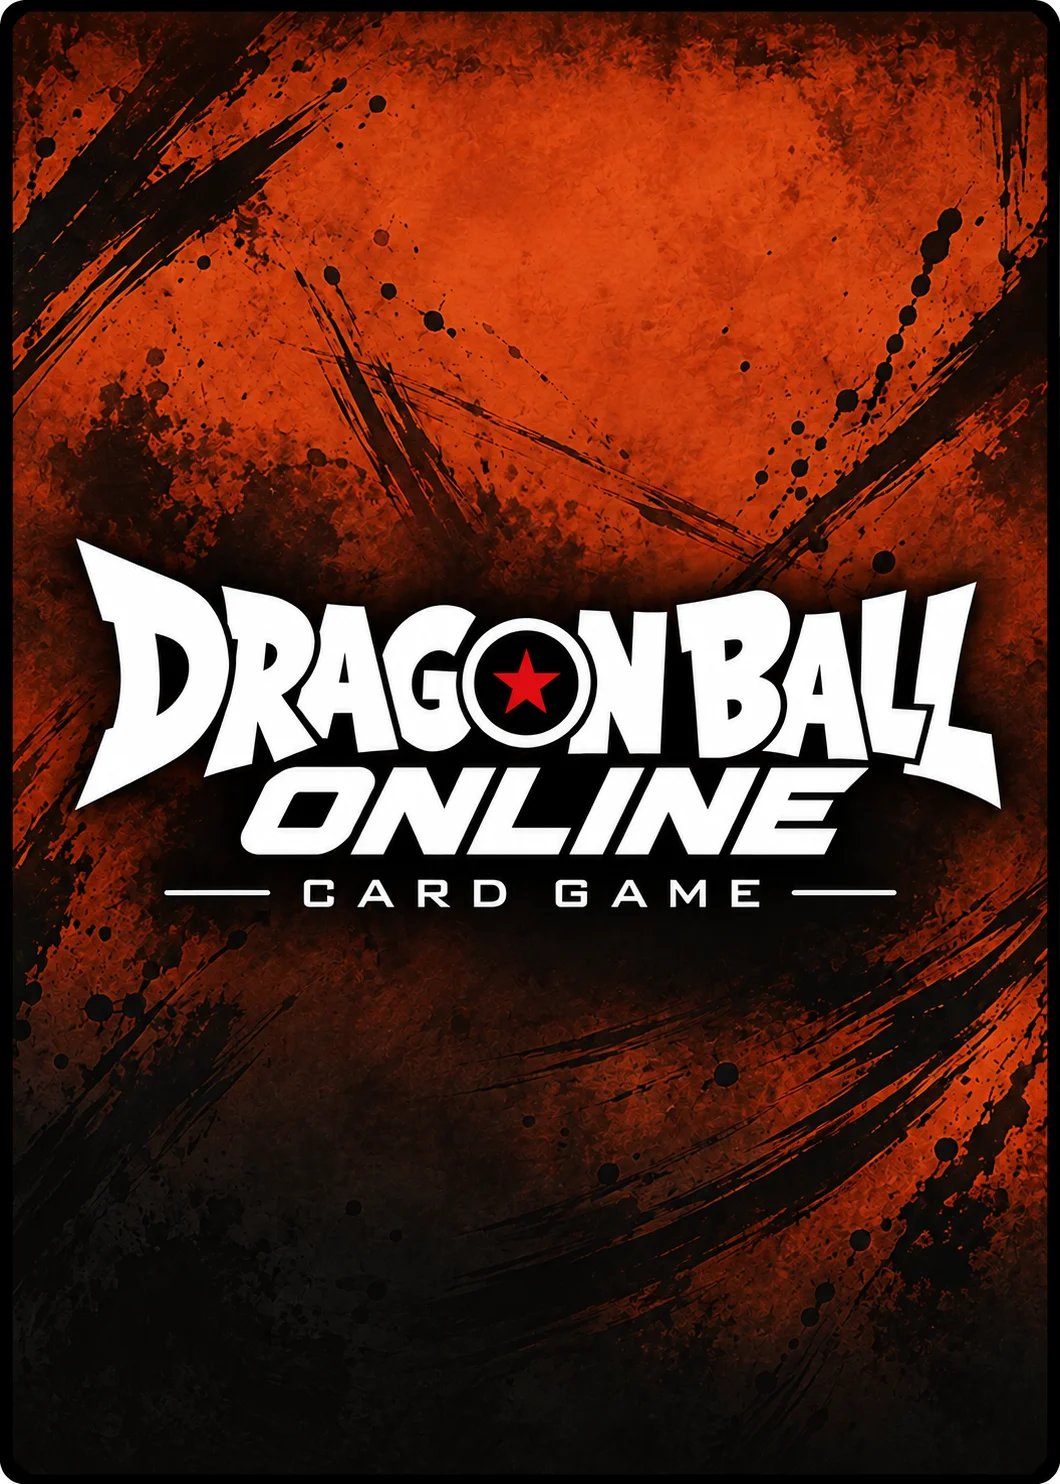
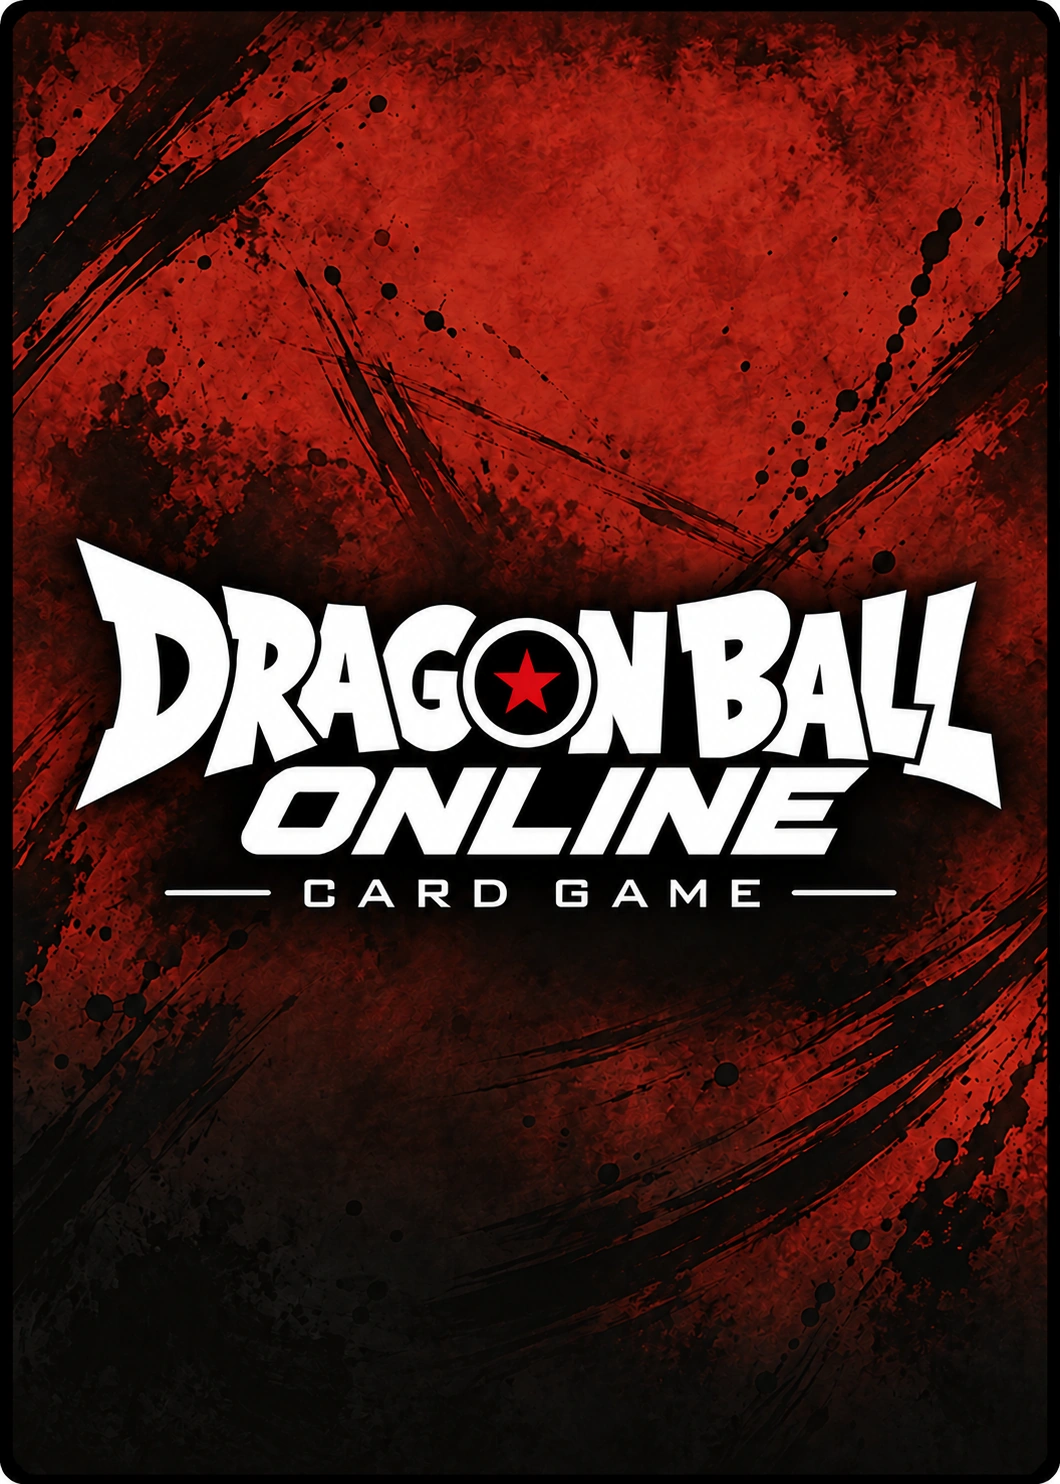
Use burnt-red card back artwork throughout site

diff --git a/public/app.js b/public/app.js
@@ -68,7 +68,7 @@ function zoneHTML(p, owner, zone) {
   const data = p.zones[zone], hidden = !Array.isArray(data), count = hidden ? data.count : data.length;
   if (!hidden && ['discard', 'removed', 'senseiDeck', 'location'].includes(zone)) {
     const top = data.at(-1), concealed = top?.faceDown && owner !== seat;
-    return `<div class="zone compact-pile" data-zone="${zone}" data-owner="${owner}"><div class="zone-label">${labels[zone]} <span>${count}</span></div><button class="pile-open" data-pile="${owner}:${zone}" aria-haspopup="dialog" aria-label="View ${owner === seat ? 'your' : 'opponent’s'} ${labels[zone]} pile, ${count} cards"><span class="pile-cover ${count > 1 ? 'stacked' : ''} ${!top ? 'empty-cover' : ''}">${top ? top.image && !concealed ? `<img src="${esc(top.image)}" alt="" loading="lazy" referrerpolicy="no-referrer">` : concealed ? '<img src="/assets/dragon-ball-online-card-back.webp" alt="">' : `<span>${esc(top.name)}</span>` : '<span>Empty</span>'}</span><span class="pile-caption">${count ? 'View pile' : 'Empty pile'}</span></button></div>`;
+    return `<div class="zone compact-pile" data-zone="${zone}" data-owner="${owner}"><div class="zone-label">${labels[zone]} <span>${count}</span></div><button class="pile-open" data-pile="${owner}:${zone}" aria-haspopup="dialog" aria-label="View ${owner === seat ? 'your' : 'opponent’s'} ${labels[zone]} pile, ${count} cards"><span class="pile-cover ${count > 1 ? 'stacked' : ''} ${!top ? 'empty-cover' : ''}">${top ? top.image && !concealed ? `<img src="${esc(top.image)}" alt="" loading="lazy" referrerpolicy="no-referrer">` : concealed ? '<img src="/assets/dragon-ball-online-card-back.webp?v=burnt-red-1" alt="">' : `<span>${esc(top.name)}</span>` : '<span>Empty</span>'}</span><span class="pile-caption">${count ? 'View pile' : 'Empty pile'}</span></button></div>`;
   }
   return `<div class="zone" data-zone="${zone}" data-owner="${owner}"><div class="zone-label">${labels[zone]} <span>${count}</span></div>${hidden ? `<div class="pile"><span class="card back" aria-hidden="true"></span>${count}</div><div class="pile-caption">${zone === 'deck' ? 'Life remaining' : 'Private'}</div>` : `<div class="cards">${data.map(c => cardHTML(c, owner, zone)).join('') || '<span class="empty">Empty</span>'}</div>`}</div>`;
 }
@@ -114,7 +114,7 @@ function getSelected(){if(!selected)return null;const[owner,zone,uid]=selected.s
 function renderInspector(){
   const s=getSelected();$('card-controls').hidden=!s;if(!s){selected=null;$('inspect').innerHTML='';return;}
   const {owner,zone,c}=s,mine=owner===seat,hidden=c.faceDown&&!mine,fixed=['mp','mastery','sensei'].includes(zone);
-  $('inspect').innerHTML=`${hidden?'<img class="preview-image" src="/assets/dragon-ball-online-card-back.webp" alt="Face-down card">':c.image?`<img class="preview-image" src="${esc(c.image)}" alt="${esc(c.name)}" referrerpolicy="no-referrer">`:'<div class="large-placeholder">Z</div>'}${c.image&&!hidden?'<button id="enlarge-card" class="wide">Enlarge card <svg class="ui-icon" viewBox="0 0 24 24" fill="none" stroke="currentColor" stroke-width="1.8" stroke-linecap="round" stroke-linejoin="round" aria-hidden="true" focusable="false"><path d="M14 3h7v7M21 3 10 14"/><path d="M21 14v5a2 2 0 0 1-2 2H5a2 2 0 0 1-2-2V5a2 2 0 0 1 2-2h5"/></svg></button>':''}<h3>${esc(hidden?'Face-down card':c.name)}</h3><p>${esc(hidden?'Hidden':c.id)} · ${labels[zone]}</p>${mine&&zone==='senseiDeck'&&game.status==='setup'?'<p class="fine">Choose cards in the Sensei swap checkboxes below your table, then swap them together.</p>':''}${mine&&game.status==='playing'&&!fixed?`<label>Move to<select id="destination">${Object.entries(labels).filter(([z])=>z!==zone&&!['mp','mastery','sensei'].includes(z)).map(([z,l])=>`<option value="${z}">${l}${z==='deck'?' (top)':''}</option>`).join('')}${zone!=='deck'?'<option value="deck-bottom">Life Deck (bottom)</option>':''}</select></label><button class="primary wide" id="move-selected">Move card <svg class="ui-icon" viewBox="0 0 24 24" fill="none" stroke="currentColor" stroke-width="1.8" stroke-linecap="round" stroke-linejoin="round" aria-hidden="true" focusable="false"><path d="M4 12h16m-6-6 6 6-6 6"/></svg></button>${!['hand','deck','senseiDeck'].includes(zone)?`<div class="toolbar"><button data-card-action="rest">${c.rested?'Mark unused':'Mark used'}</button><button data-card-action="flip">Flip</button></div>${zone==='allies'?'<div class="toolbar"><button data-card-action="stages" data-delta="-1">−1 stage</button><button data-card-action="stages" data-delta="1">+1 stage</button></div>':''}${zone==='dragonballs'?'<button data-card-action="giveDragonBall">Transfer to opponent</button>':''}`:''}`:''}`;
+  $('inspect').innerHTML=`${hidden?'<img class="preview-image" src="/assets/dragon-ball-online-card-back.webp?v=burnt-red-1" alt="Face-down card">':c.image?`<img class="preview-image" src="${esc(c.image)}" alt="${esc(c.name)}" referrerpolicy="no-referrer">`:'<div class="large-placeholder">Z</div>'}${c.image&&!hidden?'<button id="enlarge-card" class="wide">Enlarge card <svg class="ui-icon" viewBox="0 0 24 24" fill="none" stroke="currentColor" stroke-width="1.8" stroke-linecap="round" stroke-linejoin="round" aria-hidden="true" focusable="false"><path d="M14 3h7v7M21 3 10 14"/><path d="M21 14v5a2 2 0 0 1-2 2H5a2 2 0 0 1-2-2V5a2 2 0 0 1 2-2h5"/></svg></button>':''}<h3>${esc(hidden?'Face-down card':c.name)}</h3><p>${esc(hidden?'Hidden':c.id)} · ${labels[zone]}</p>${mine&&zone==='senseiDeck'&&game.status==='setup'?'<p class="fine">Choose cards in the Sensei swap checkboxes below your table, then swap them together.</p>':''}${mine&&game.status==='playing'&&!fixed?`<label>Move to<select id="destination">${Object.entries(labels).filter(([z])=>z!==zone&&!['mp','mastery','sensei'].includes(z)).map(([z,l])=>`<option value="${z}">${l}${z==='deck'?' (top)':''}</option>`).join('')}${zone!=='deck'?'<option value="deck-bottom">Life Deck (bottom)</option>':''}</select></label><button class="primary wide" id="move-selected">Move card <svg class="ui-icon" viewBox="0 0 24 24" fill="none" stroke="currentColor" stroke-width="1.8" stroke-linecap="round" stroke-linejoin="round" aria-hidden="true" focusable="false"><path d="M4 12h16m-6-6 6 6-6 6"/></svg></button>${!['hand','deck','senseiDeck'].includes(zone)?`<div class="toolbar"><button data-card-action="rest">${c.rested?'Mark unused':'Mark used'}</button><button data-card-action="flip">Flip</button></div>${zone==='allies'?'<div class="toolbar"><button data-card-action="stages" data-delta="-1">−1 stage</button><button data-card-action="stages" data-delta="1">+1 stage</button></div>':''}${zone==='dragonballs'?'<button data-card-action="giveDragonBall">Transfer to opponent</button>':''}`:''}`:''}`;
 }
 
 document.addEventListener('click', e => {

diff --git a/public/play/index.html b/public/play/index.html
@@ -3,7 +3,7 @@
 <body class="arena-page">
 <header class="site-header"><a class="brand" href="/" aria-label="Dragon Ball Online home"><img class="brand-logo" src="/assets/dragon-ball-online-logo.webp" alt="Dragon Ball Online Card Game" width="2048" height="768"></a><button id="nav-toggle" type="button" aria-expanded="false" aria-controls="site-navigation" aria-label="Open navigation"><svg viewBox="0 0 24 24" fill="none" stroke="currentColor" stroke-width="1.8" stroke-linecap="round" aria-hidden="true"><path class="menu-open" d="M4 8h16M4 16h16"/><path class="menu-close" d="m6 6 12 12M6 18 18 6"/></svg></button><nav id="site-navigation" aria-label="Main navigation"><span id="connection" class="pill">Online card game</span><a href="/">Home</a><a href="/play/" aria-current="page">Play</a><a href="/cards/">Card Database</a><a href="/decks/">Deck Builder</a><a href="/rulebook/">Rulebook</a></nav></header>
 <main>
-<section id="lobby" class="lobby"><div class="intro"><span class="eyebrow">YOUR DECK. YOUR NEXT BATTLE.</span><h1>A place to<br>play <em>Score DBZ CCG.</em></h1><p>The feel of a card table, right in your browser. Invite a friend, bring your deck, and take the game into your own hands.</p><div class="feature-row"><span>01 <b>Private tables</b></span><span>02 <b>Manual play</b></span><span>03 <b>Light guidance</b></span></div><div class="lobby-card-fan" role="img" aria-label="Three Dragon Ball Online card backs fanned out"><img src="/assets/dragon-ball-online-card-back.webp" alt="" width="1097" height="1536" draggable="false"><img src="/assets/dragon-ball-online-card-back.webp" alt="" width="1097" height="1536" draggable="false"><img src="/assets/dragon-ball-online-card-back.webp" alt="" width="1097" height="1536" draggable="false"></div></div>
+<section id="lobby" class="lobby"><div class="intro"><span class="eyebrow">YOUR DECK. YOUR NEXT BATTLE.</span><h1>A place to<br>play <em>Score DBZ CCG.</em></h1><p>The feel of a card table, right in your browser. Invite a friend, bring your deck, and take the game into your own hands.</p><div class="feature-row"><span>01 <b>Private tables</b></span><span>02 <b>Manual play</b></span><span>03 <b>Light guidance</b></span></div><div class="lobby-card-fan" role="img" aria-label="Three Dragon Ball Online card backs fanned out"><img src="/assets/dragon-ball-online-card-back.webp?v=burnt-red-1" alt="" width="1097" height="1536" draggable="false"><img src="/assets/dragon-ball-online-card-back.webp?v=burnt-red-1" alt="" width="1097" height="1536" draggable="false"><img src="/assets/dragon-ball-online-card-back.webp?v=burnt-red-1" alt="" width="1097" height="1536" draggable="false"></div></div>
 <div class="lobby-panel"><div class="section-label">THE LOBBY</div><h2>Take your seat.</h2><p>Two players. One shared table.</p><form id="room-form"><label>Your display name<input id="name" maxlength="24" placeholder="Enter your name" required autocomplete="nickname"></label><button class="primary wide" id="create" type="submit">Create a private table <span><svg class="ui-icon" viewBox="0 0 24 24" fill="none" stroke="currentColor" stroke-width="1.8" stroke-linecap="round" stroke-linejoin="round" aria-hidden="true" focusable="false"><path d="M14 3h7v7M21 3 10 14"/><path d="M21 14v5a2 2 0 0 1-2 2H5a2 2 0 0 1-2-2V5a2 2 0 0 1 2-2h5"/></svg></span></button></form><div class="divider">HAVE AN INVITE?</div><form id="join-form"><label>Room link or code<input id="room-code" placeholder="Paste your friend's invite" required></label><button class="wide" type="submit">Join table</button></form><button id="practice" class="text-button wide">Try a solo practice table <svg class="ui-icon" viewBox="0 0 24 24" fill="none" stroke="currentColor" stroke-width="1.8" stroke-linecap="round" stroke-linejoin="round" aria-hidden="true" focusable="false"><path d="M4 12h16m-6-6 6 6-6 6"/></svg></button><p class="fine">No account needed. Your seat stays in this browser. Anyone with your invite can claim the second seat.</p></div></section>
 <section id="table" hidden><div class="table-heading"><div><span class="eyebrow" id="room-label">PRIVATE TABLE</span><h1 id="table-title">Battle table</h1></div><div class="toolbar"><button id="switch-seat" hidden>Switch practice seat</button><button id="copy-invite">Copy invite</button><button id="open-deck">Load deck</button><button id="leave">Leave table</button></div></div><div class="workspace"><div class="play-column"><section id="turn-bar" class="turn-bar"></section><p class="practice-notice">Sample decks use repeated cards and placeholder MP levels for testing. Card effects are resolved manually.</p><div id="setup-bar" class="setup-bar"></div><div id="board"></div><div id="controls" class="controls"></div><section id="search-panel" class="hand-panel" hidden><div class="section-label">PRIVATE DECK SEARCH · SORTED BY ID</div><p class="fine">Select a card to move it. Your opponent sees that you are searching, but not the cards.</p><button data-action="shuffle">Finish search &amp; shuffle</button><div id="search-cards" class="cards"></div></section><section class="hand-panel"><div class="section-label">YOUR HAND <span id="hand-count"></span></div><div id="hand" class="cards"></div></section></div><aside><section class="side-panel log-panel"><div class="section-label">GAME LOG & CHAT</div><ol id="log" aria-live="polite"></ol><form id="chat-form"><input id="chat" maxlength="300" placeholder="Message your opponent…" aria-label="Chat message"><button type="submit" aria-label="Send chat"><svg class="ui-icon" viewBox="0 0 24 24" fill="none" stroke="currentColor" stroke-width="1.8" stroke-linecap="round" stroke-linejoin="round" aria-hidden="true" focusable="false"><path d="M12 20V4m-6 6 6-6 6 6"/></svg></button></form></section></aside></div></section>
 </main><footer>Dragon Ball Arena · Unofficial fan project. Not affiliated with Score Entertainment or the Dragon Ball rights holders.</footer>

diff --git a/public/index.html b/public/index.html
@@ -7,5 +7,5 @@
 <article class="news-post" id="deck-builder-update"><div class="post-meta"><span class="post-category">SITE UPDATE</span><time datetime="2026-10-08">October 8, 2026</time></div><h2>A place to build your next deck.</h2><p>Browse the card collection, choose your starting lineup, and put together a deck in one clean workspace.</p><div id="deck-news-more" class="post-more" hidden><p>Search by card name, number, or available rules text. Filter by set, style, and type, then add cards to your Life Deck or Sensei Deck.</p><p>Name and save multiple decks in your browser. Export a JSON backup or select a saved deck from “Load deck” when you join a table.</p></div><div class="post-actions"><button class="read-more" type="button" aria-expanded="false" aria-controls="deck-news-more">Show more <svg viewBox="0 0 24 24" aria-hidden="true"><path d="m7 10 5 5 5-5"/></svg></button><a href="/decks/">Open deck builder <span aria-hidden="true">↗</span></a></div></article>
 <article class="news-post" id="saiyan-saga-update"><div class="post-meta"><span class="post-category">CARD COLLECTION</span><time datetime="2026-10-08">October 8, 2026</time><span class="work-badge">In progress</span></div><h2>Saiyan Saga, a new look.</h2><p>The original set is being refreshed for Dragon Ball Online, with consistent card dimensions, cleaner artwork, and the updated card frame.</p><div id="saiyan-news-more" class="post-more" hidden><p>Browse the available cards in the database as the collection grows. The deck builder uses the same catalog, so newly added cards appear there too.</p><p>The remaining artwork and card text are still being reviewed. The database shows the current collection.</p></div><div class="post-actions"><button class="read-more" type="button" aria-expanded="false" aria-controls="saiyan-news-more">Show more <svg viewBox="0 0 24 24" aria-hidden="true"><path d="m7 10 5 5 5-5"/></svg></button><a href="/cards/">Explore the cards <span aria-hidden="true">↗</span></a></div></article>
 <article class="news-post" id="rulebook-update"><div class="post-meta"><span class="post-category">AT THE TABLE</span><time datetime="2026-10-08">October 8, 2026</time></div><h2>The rulebook, within reach.</h2><p>From your starting lineup to the final attack, the digital rulebook keeps the Score DBZ game guidance close at hand.</p><div id="rules-news-more" class="post-more" hidden><p>Search the guide, jump between chapters, and revisit the turn sequence as you play. The tabletop keeps card effects and decisions in your hands.</p></div><div class="post-actions"><button class="read-more" type="button" aria-expanded="false" aria-controls="rules-news-more">Show more <svg viewBox="0 0 24 24" aria-hidden="true"><path d="m7 10 5 5 5-5"/></svg></button><a href="/rulebook/">Read the rulebook <span aria-hidden="true">↗</span></a></div></article>
-</section><aside class="home-sidebar"><section class="play-invite"><div class="invite-art" aria-hidden="true"><img src="/assets/dragon-ball-online-card-back.webp" alt="" width="1097" height="1536"></div><span class="eyebrow">READY WHEN YOU ARE</span><h2>Take your seat.</h2><p>Create a private table, invite a friend, or try a solo practice game.</p><a class="primary-link" href="/play/">Enter the arena <svg viewBox="0 0 24 24" aria-hidden="true"><path d="M4 12h16m-6-6 6 6-6 6"/></svg></a></section><section class="quick-links" aria-label="Explore"><h2>Make your next move</h2><a href="/cards/"><span>Card Database<small>Explore the collection</small></span><span aria-hidden="true">↗</span></a><a href="/decks/"><span>Deck Builder<small>Build something of your own</small></span><span aria-hidden="true">↗</span></a><a href="/rulebook/"><span>Rulebook<small>Learn the game</small></span><span aria-hidden="true">↗</span></a></section></aside></div>
+</section><aside class="home-sidebar"><section class="play-invite"><div class="invite-art" aria-hidden="true"><img src="/assets/dragon-ball-online-card-back.webp?v=burnt-red-1" alt="" width="1097" height="1536"></div><span class="eyebrow">READY WHEN YOU ARE</span><h2>Take your seat.</h2><p>Create a private table, invite a friend, or try a solo practice game.</p><a class="primary-link" href="/play/">Enter the arena <svg viewBox="0 0 24 24" aria-hidden="true"><path d="M4 12h16m-6-6 6 6-6 6"/></svg></a></section><section class="quick-links" aria-label="Explore"><h2>Make your next move</h2><a href="/cards/"><span>Card Database<small>Explore the collection</small></span><span aria-hidden="true">↗</span></a><a href="/decks/"><span>Deck Builder<small>Build something of your own</small></span><span aria-hidden="true">↗</span></a><a href="/rulebook/"><span>Rulebook<small>Learn the game</small></span><span aria-hidden="true">↗</span></a></section></aside></div>
 </main><footer class="home-footer"><span>DRAGON BALL ONLINE</span><p>Unofficial fan project · Original Score DBZ CCG</p></footer></body></html>

diff --git a/public/style.css b/public/style.css
@@ -5,9 +5,9 @@
 .counter-row{display:flex;flex-wrap:wrap;gap:8px;margin-bottom:12px}.counter{display:flex;align-items:center;gap:6px;background:#242c3c;padding:5px 8px;border-radius:6px;font-size:10px}.counter strong{font-size:17px;color:var(--accent)}.counter button{padding:2px 7px}.sensei-choices{padding:10px}.sensei-choices label{margin:4px;font-size:11px}.sensei-choices input{display:inline;width:auto;margin:0}.setup-bar select{max-width:240px}.zone-label{overflow-wrap:anywhere}.zone-stack .zone{min-width:0}@media(max-width:650px){.counter-row{gap:4px}.counter{padding:3px 5px;font-size:8px;gap:4px}.counter button{padding:2px 5px}.counter strong{font-size:14px}}
 
 /* Shared static card artwork: one download for every hidden card. */
-.art-card,.card.back{background:#10131c url("/assets/dragon-ball-online-card-back.webp") center/100% 100% no-repeat;border:1px solid #080b12;box-shadow:0 3px 9px #0008;padding:0;aspect-ratio:5/7;min-height:0;height:auto}
+.art-card,.card.back{background:#10131c url("/assets/dragon-ball-online-card-back.webp?v=burnt-red-1") center/100% 100% no-repeat;border:1px solid #080b12;box-shadow:0 3px 9px #0008;padding:0;aspect-ratio:5/7;min-height:0;height:auto}
 .art-card{height:180px;box-shadow:0 12px 30px #0009}
-.card.back:hover{background:#10131c url("/assets/dragon-ball-online-card-back.webp") center/100% 100% no-repeat}
+.card.back:hover{background:#10131c url("/assets/dragon-ball-online-card-back.webp?v=burnt-red-1") center/100% 100% no-repeat}
 .pile .card.back{border-radius:3px}
 
 /* Open tabletop, with separate starting slots and private piles. */
